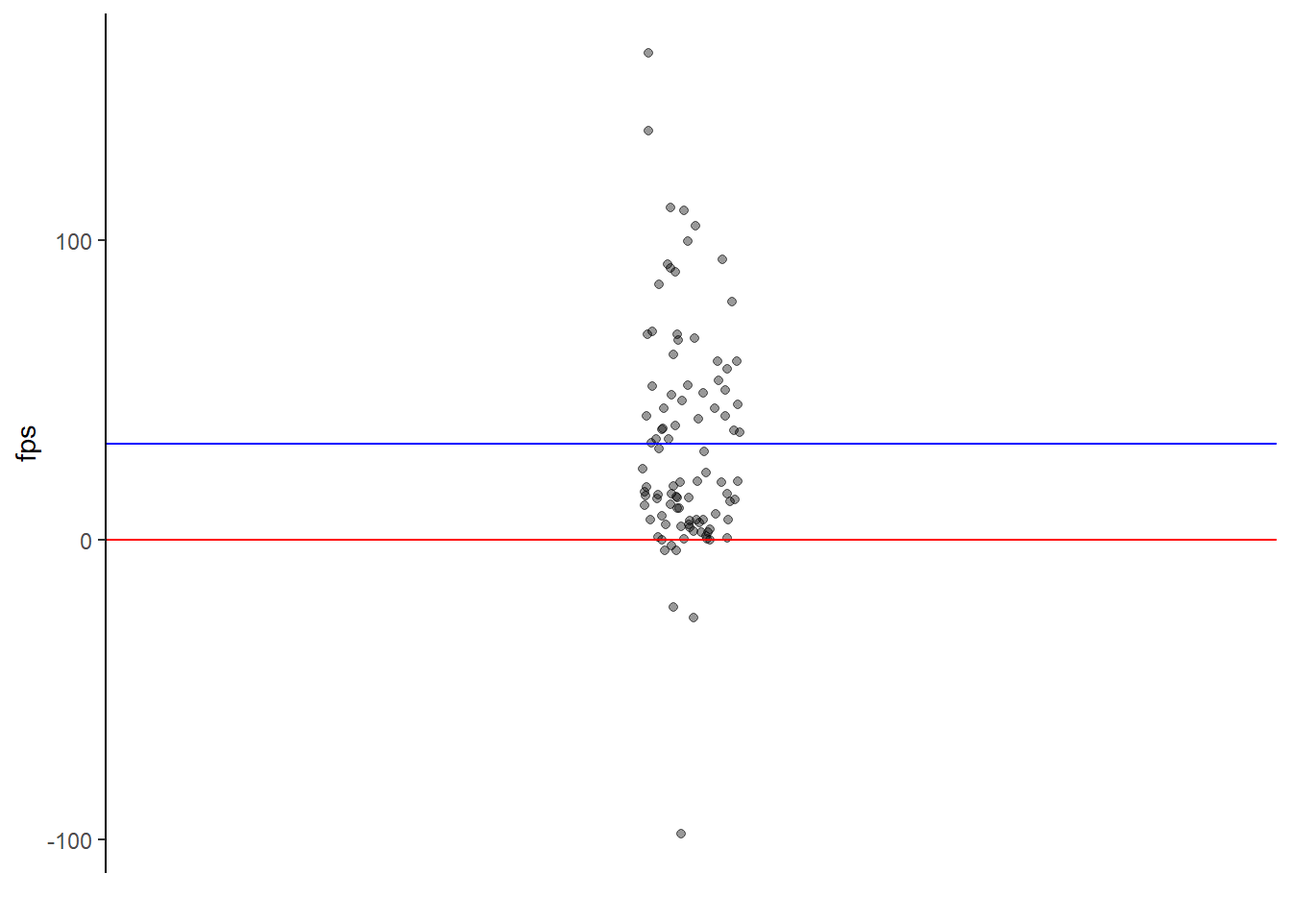
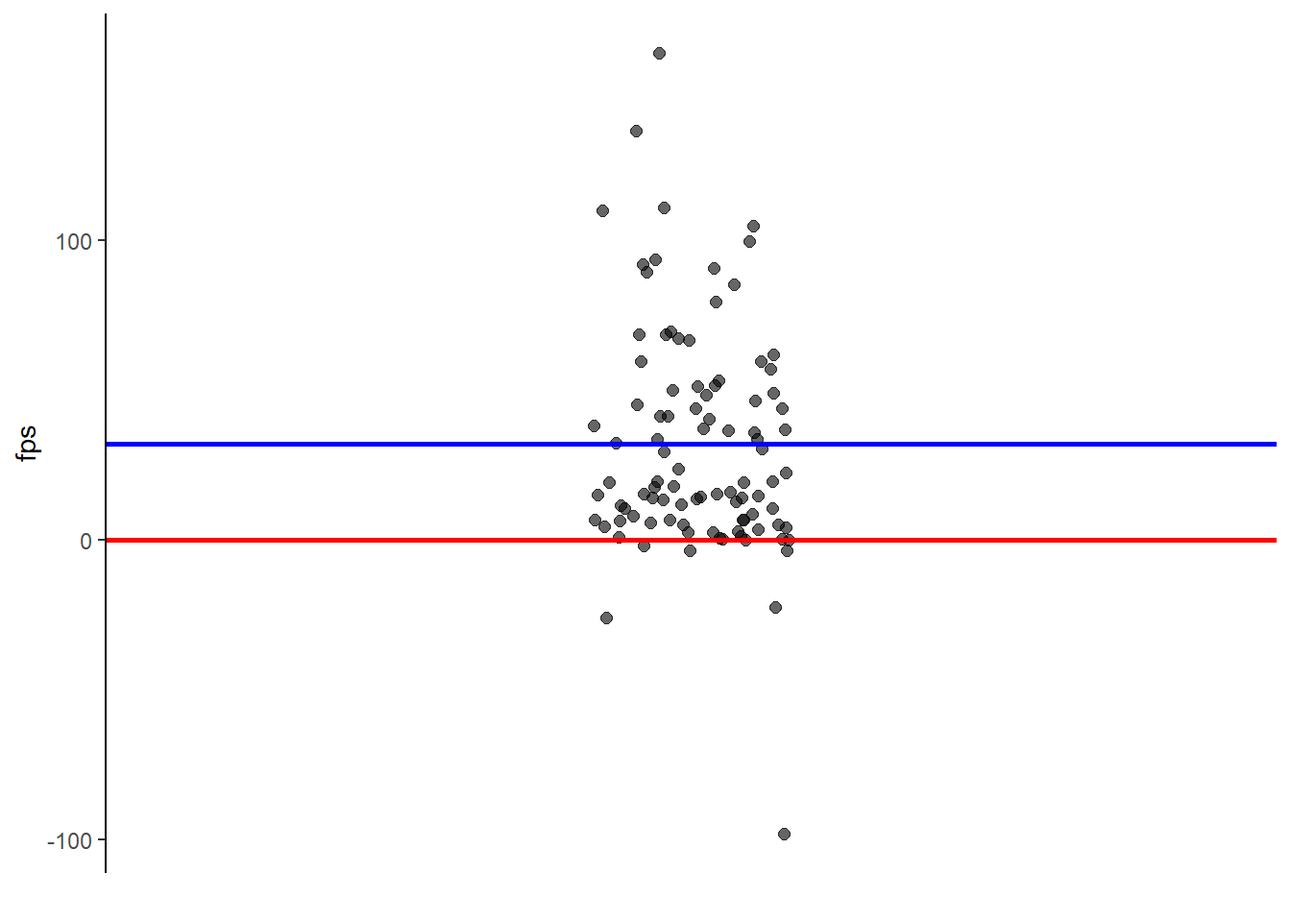
Built site for gh-pages

diff --git a/03_single_mean.html b/03_single_mean.html
@@ -303,9 +303,15 @@ window.Quarto = {
 <section id="units-3-4-organization" class="level2" data-number="3.1">
 <h2 data-number="3.1" class="anchored" data-anchor-id="units-3-4-organization"><span class="header-section-number">3.1</span> Units 3-4 Organization</h2>
 <ul>
-<li>First, consider details of simplest model (one parameter estimate; mean-only model; no <span class="math inline">\(X\)</span>s).</li>
-<li>Next, examine simple regression (two parameter estimates; one <span class="math inline">\(X\)</span> for one quantitative predictor variable).</li>
-<li>These provide a critical foundation for all linear models.</li>
+<li>First, consider details of simplest model (one parameter estimate; mean-only model; no <span class="math inline">\(X\)</span>s).<br>
+<br>
+</li>
+<li>Next, examine simple regression (two parameter estimates; one <span class="math inline">\(X\)</span> for one quantitative predictor variable).<br>
+<br>
+</li>
+<li>These provide a critical foundation for all linear models.<br>
+<br>
+</li>
 <li>Subsequent units will generalize to one dichotomous variable (<em>Unit 5</em>), multiple predictor variables (<em>Units 6-7</em>), and beyond…</li>
 </ul>
 <hr>
@@ -343,15 +349,22 @@ This is called <strong>Fear potentiated startle (FPS)</strong>. Our procedure wo
 <section id="fear-potentiated-startle-one-parameter-model" class="level2" data-number="3.4">
 <h2 data-number="3.4" class="anchored" data-anchor-id="fear-potentiated-startle-one-parameter-model"><span class="header-section-number">3.4</span> Fear Potentiated Startle: One parameter model</h2>
 <p>A very simple model for the population of FPS scores would predict the same value for everyone in the population.</p>
-<p><span class="math inline">\(\hat{Y}_i=\beta_0\)</span></p>
+<p><span class="math inline">\(\hat{Y}_i=\beta_0\)</span><br>
+<br>
+</p>
 <p>We would like this value to be the <em>best</em> prediction.<br>
 <br>
 </p>
 <section id="question-in-the-context-of-data-model-error-how-can-we-quantify-best" class="level3" data-number="3.4.1">
 <h3 data-number="3.4.1" class="anchored" data-anchor-id="question-in-the-context-of-data-model-error-how-can-we-quantify-best"><span class="header-section-number">3.4.1</span> <span style="color: red;">Question: In the context of DATA = MODEL + ERROR, how can we quantify <em>best</em>?</span></h3>
 <hr>
-<p><strong>We want to predict some characteristic about the population of FPS scores that minimizes the ERROR from our model.</strong></p>
-<p><strong>ERROR = DATA – MODEL</strong></p>
+<p><strong>We want to predict some characteristic about the population of FPS scores that minimizes the ERROR from our model.</strong><br>
+<br>
+</p>
+<p><strong>ERROR = DATA – MODEL</strong><br>
+<br>
+<br>
+</p>
 <p><strong><span class="math inline">\(\varepsilon_i=Y_i-\hat{Y}_i\)</span>; There is an error (<span class="math inline">\(\varepsilon_i\)</span>) for each population score.</strong><br>
 <br>
 </p>
@@ -364,16 +377,21 @@ This is called <strong>Fear potentiated startle (FPS)</strong>. Our procedure wo
 <section id="total-error" class="level2" data-number="3.5">
 <h2 data-number="3.5" class="anchored" data-anchor-id="total-error"><span class="header-section-number">3.5</span> Total Error</h2>
 <p><strong><em>Sum of errors</em></strong> across all scores in the population isn’t ideal because positive and negative errors will tend to cancel each other out.</p>
-<p><span class="math inline">\(\sum(Y_i-\hat{Y}_i)\)</span></p>
-<p><strong><em>Sum of absolute values of errors</em></strong> could work. If we selected <span class="math inline">\(\beta_0\)</span> to minimize the sum of the absolute value of errors, <span class="math inline">\(\beta_0\)</span> would equal the median of the population.</p>
-<p><span class="math inline">\(\sum(|Y_i-\hat{Y}_i|)\)</span></p>
+<p><span class="math inline">\(\sum(Y_i-\hat{Y}_i)\)</span><br>
+<br>
+<strong><em>Sum of absolute values of errors</em></strong> could work. If we selected <span class="math inline">\(\beta_0\)</span> to minimize the sum of the absolute value of errors, <span class="math inline">\(\beta_0\)</span> would equal the median of the population.</p>
+<p><span class="math inline">\(\sum(|Y_i-\hat{Y}_i|)\)</span><br>
+<br>
+</p>
 <p><strong><em>Sum of squared errors (SSE)</em></strong> could work. If we selected <span class="math inline">\(\beta_0\)</span> to minimize the sum of squared errors, <span class="math inline">\(\beta_0\)</span> would equal the mean of the population.</p>
 <p><span class="math inline">\(\sum(Y_i-\hat{Y}_i)^2\)</span></p>
 <hr>
 </section>
 <section id="one-parameter-model-for-fps" class="level2" data-number="3.6">
 <h2 data-number="3.6" class="anchored" data-anchor-id="one-parameter-model-for-fps"><span class="header-section-number">3.6</span> One Parameter Model for FPS</h2>
-<p>For the moment, lets assume we prefer to minimize SSE (more on that in a moment). You should predict the population mean FPS for everyone.</p>
+<p>For the moment, lets assume we prefer to minimize SSE (more on that in a moment). You should predict the population mean FPS for everyone.<br>
+<br>
+</p>
 <p><span class="math inline">\(\hat{Y}_i=\beta_0\)</span> where <span class="math inline">\(\beta_0=\mu\)</span><br>
 <br>
 </p>
@@ -400,7 +418,9 @@ This is called <strong>Fear potentiated startle (FPS)</strong>. Our procedure wo
 </section>
 <section id="least-squares-criterion" class="level2" data-number="3.8">
 <h2 data-number="3.8" class="anchored" data-anchor-id="least-squares-criterion"><span class="header-section-number">3.8</span> Least Squares Criterion</h2>
-<p>In ordinary least squares (OLS) regression and other least squares linear models, the model parameter estimates (e.g., <span class="math inline">\(b_0\)</span>) are calculated such that they minimize the sum of squared errors (SSE) in the sample in which you estimate the model.</p>
+<p>In ordinary least squares (OLS) regression and other least squares linear models, the model parameter estimates (e.g., <span class="math inline">\(b_0\)</span>) are calculated such that they minimize the sum of squared errors (SSE) in the sample in which you estimate the model.<br>
+<br>
+</p>
 <p><span class="math inline">\(\text{SSE}=\sum(Y_i-\hat{Y}_i)^2\)</span></p>
 <p><span class="math inline">\(\text{SSE}=\sum e_i^2\)</span></p>
 <hr>
@@ -421,11 +441,16 @@ This is called <strong>Fear potentiated startle (FPS)</strong>. Our procedure wo
 </section>
 <section id="least-squares-criterion-continued" class="level2" data-number="3.10">
 <h2 data-number="3.10" class="anchored" data-anchor-id="least-squares-criterion-continued"><span class="header-section-number">3.10</span> Least Squares Criterion (Continued)</h2>
-<p>If the <span class="math inline">\(\varepsilon_i\)</span> are normally distributed, both the median and the mean are <strong><em>unbiased</em></strong> and <strong><em>consistent</em></strong> estimators.</p>
+<p>If the <span class="math inline">\(\varepsilon_i\)</span> are normally distributed, both the median and the mean are <strong><em>unbiased</em></strong> and <strong><em>consistent</em></strong> estimators.<br>
+<br>
+</p>
 <p>The variance of the sampling distribution for the mean is:</p>
 <p><span class="math inline">\(\frac{\sigma^2}{N}\)</span></p>
 <p>The variance of the sampling distribution for the mean is:</p>
-<p><span class="math inline">\(\frac{\pi\sigma^2}{2N}\)</span></p>
+<p><span class="math inline">\(\frac{\pi\sigma^2}{2N}\)</span><br>
+<br>
+<br>
+</p>
 <p>Therefore, the mean is the <strong>more efficient</strong> parameter.</p>
 <p>For this reason, we tend to prefer to estimate our models by minimizing the sum of squared errors.</p>
 <hr>
@@ -483,11 +508,19 @@ $ fps   &lt;dbl&gt; 19.4909278, 48.4069444, -22.5285000, 6.7237833, 89.6587222, 
 </section>
 <section id="fps-experiment-the-inference-details" class="level2" data-number="3.13">
 <h2 data-number="3.13" class="anchored" data-anchor-id="fps-experiment-the-inference-details"><span class="header-section-number">3.13</span> FPS Experiment: The Inference Details</h2>
-<p><strong><em>Goal:</em></strong> Determine if our shock threat procedure is effective at potentiating startle (increasing startle during threat relative to safe).</p>
+<p><strong><em>Goal:</em></strong> Determine if our shock threat procedure is effective at potentiating startle (increasing startle during threat relative to safe).<br>
+<br>
+</p>
 <p>Create a simple model of FPS scores in the population.</p>
-<p><span class="math inline">\(\text{FPS}=\beta_0\)</span></p>
-<p>Collect sample of <span class="math inline">\(N=96\)</span> to estimate <span class="math inline">\(\beta_0\)</span>.</p>
-<p>Calculate sample parameter estimate (<span class="math inline">\(b_0\)</span>) that minimizes SSE in sample.</p>
+<p><span class="math inline">\(\text{FPS}=\beta_0\)</span><br>
+<br>
+</p>
+<p>Collect sample of <span class="math inline">\(N=96\)</span> to estimate <span class="math inline">\(\beta_0\)</span>.<br>
+<br>
+</p>
+<p>Calculate sample parameter estimate (<span class="math inline">\(b_0\)</span>) that minimizes SSE in sample.<br>
+<br>
+</p>
 <p>Use <span class="math inline">\(b_0\)</span> to test hypotheses.</p>
 <p><span class="math inline">\(H_0: \beta_0 = 0\)</span><br>
 <span class="math inline">\(H_a: \beta_0 \neq 0\)</span></p>
@@ -496,11 +529,20 @@ $ fps   &lt;dbl&gt; 19.4909278, 48.4069444, -22.5285000, 6.7237833, 89.6587222, 
 <section id="estimating-a-one-parameter-model-in-r" class="level2" data-number="3.14">
 <h2 data-number="3.14" class="anchored" data-anchor-id="estimating-a-one-parameter-model-in-r"><span class="header-section-number">3.14</span> Estimating a One Parameter Model in R</h2>
 <div class="cell">
-<div class="sourceCode cell-code" id="cb6"><pre class="sourceCode r code-with-copy"><code class="sourceCode r"><span id="cb6-1"><a href="#cb6-1" aria-hidden="true" tabindex="-1"></a>m <span class="ot">=</span> <span class="fu">lm</span>(fps <span class="sc">~</span> <span class="dv">1</span>, <span class="at">data =</span> data)</span></code><button title="Copy to Clipboard" class="code-copy-button"><i class="bi"></i></button></pre></div>
+<div class="sourceCode cell-code" id="annotated-cell-4"><pre class="sourceCode r code-annotation-code code-with-copy code-annotated"><code class="sourceCode r"><a class="code-annotation-anchor" data-target-cell="annotated-cell-4" data-target-annotation="1" onclick="event.preventDefault();">1</a><span id="annotated-cell-4-1" class="code-annotation-target"><a href="#annotated-cell-4-1" aria-hidden="true" tabindex="-1"></a>m <span class="ot">=</span> <span class="fu">lm</span>(fps <span class="sc">~</span> <span class="dv">1</span>, <span class="at">data =</span> data)</span><div class="code-annotation-gutter-bg"></div><div class="code-annotation-gutter"></div></code><button title="Copy to Clipboard" class="code-copy-button"><i class="bi"></i></button></pre></div>
+<div class="cell-annotation">
+<dl class="code-annotation-container-grid">
+<dt data-target-cell="annotated-cell-4" data-target-annotation="1">1</dt>
+<dd>
+<span data-code-cell="annotated-cell-4" data-code-lines="1" data-code-annotation="1">Here we are fitting a linear model with FPS regressed on the intercept. In other words, we are fitting a model that predicts FPS using only the mean.</span>
+</dd>
+</dl>
 </div>
+</div>
+<hr>
 <p>We can pull out the errors (<span class="math inline">\(e_i=Y_i-\hat{Y}i\)</span>) for each observation in the sample using <code>residuals()</code></p>
 <div class="cell">
-<div class="sourceCode cell-code" id="cb7"><pre class="sourceCode r code-with-copy"><code class="sourceCode r"><span id="cb7-1"><a href="#cb7-1" aria-hidden="true" tabindex="-1"></a><span class="fu">residuals</span>(m)</span></code><button title="Copy to Clipboard" class="code-copy-button"><i class="bi"></i></button></pre></div>
+<div class="sourceCode cell-code" id="cb6"><pre class="sourceCode r code-with-copy"><code class="sourceCode r"><span id="cb6-1"><a href="#cb6-1" aria-hidden="true" tabindex="-1"></a><span class="fu">residuals</span>(m)</span></code><button title="Copy to Clipboard" class="code-copy-button"><i class="bi"></i></button></pre></div>
 <div class="cell-output cell-output-stdout">
 <pre><code>           1            2            3            4            5            6 
  -12.6999127   16.2161040  -54.7193405  -25.4670572   57.4678817    8.3829373 
@@ -539,17 +581,19 @@ $ fps   &lt;dbl&gt; 19.4909278, 48.4069444, -22.5285000, 6.7237833, 89.6587222, 
 <hr>
 <p>We can also easily calculate the SSE with the following code:</p>
 <div class="cell">
-<div class="sourceCode cell-code" id="cb9"><pre class="sourceCode r code-with-copy"><code class="sourceCode r"><span id="cb9-1"><a href="#cb9-1" aria-hidden="true" tabindex="-1"></a><span class="fu">sum</span>(<span class="fu">residuals</span>(m)<span class="sc">^</span><span class="dv">2</span>)</span></code><button title="Copy to Clipboard" class="code-copy-button"><i class="bi"></i></button></pre></div>
+<div class="sourceCode cell-code" id="cb8"><pre class="sourceCode r code-with-copy"><code class="sourceCode r"><span id="cb8-1"><a href="#cb8-1" aria-hidden="true" tabindex="-1"></a><span class="fu">sum</span>(<span class="fu">residuals</span>(m)<span class="sc">^</span><span class="dv">2</span>)</span></code><button title="Copy to Clipboard" class="code-copy-button"><i class="bi"></i></button></pre></div>
 <div class="cell-output cell-output-stdout">
 <pre><code>[1] 133888.3</code></pre>
 </div>
 </div>
-<p>This tells us about how well the model fits the data. Specifically it is the sum of the squared differences between the predicted values and the actual participant scores</p>
+<p><br>
+<br>
+This tells us about how well the model fits the data. Specifically it is the sum of the squared differences between the predicted values and the actual participant scores</p>
 <hr>
 <p>We can get the predicted value for each individual in the sample using this model with the function <code>predict()</code>.</p>
 <p><span class="math inline">\(\hat{Y}=32.19\)</span></p>
 <div class="cell">
-<div class="sourceCode cell-code" id="cb11"><pre class="sourceCode r code-with-copy"><code class="sourceCode r"><span id="cb11-1"><a href="#cb11-1" aria-hidden="true" tabindex="-1"></a><span class="fu">predict</span>(m)</span></code><button title="Copy to Clipboard" class="code-copy-button"><i class="bi"></i></button></pre></div>
+<div class="sourceCode cell-code" id="cb10"><pre class="sourceCode r code-with-copy"><code class="sourceCode r"><span id="cb10-1"><a href="#cb10-1" aria-hidden="true" tabindex="-1"></a><span class="fu">predict</span>(m)</span></code><button title="Copy to Clipboard" class="code-copy-button"><i class="bi"></i></button></pre></div>
 <div class="cell-output cell-output-stdout">
 <pre><code>       1        2        3        4        5        6        7        8 
 32.19084 32.19084 32.19084 32.19084 32.19084 32.19084 32.19084 32.19084 
@@ -580,8 +624,8 @@ $ fps   &lt;dbl&gt; 19.4909278, 48.4069444, -22.5285000, 6.7237833, 89.6587222, 
 <hr>
 <p>We also may want to look at the parameter coefficients (in this case we are only looking at the intercept). We can use the <code>tidy()</code> function from the <code>broom</code> package to do this.</p>
 <div class="cell">
-<div class="sourceCode cell-code" id="cb13"><pre class="sourceCode r code-with-copy"><code class="sourceCode r"><span id="cb13-1"><a href="#cb13-1" aria-hidden="true" tabindex="-1"></a>m <span class="sc">|&gt;</span> </span>
-<span id="cb13-2"><a href="#cb13-2" aria-hidden="true" tabindex="-1"></a>  broom<span class="sc">::</span><span class="fu">tidy</span>()</span></code><button title="Copy to Clipboard" class="code-copy-button"><i class="bi"></i></button></pre></div>
+<div class="sourceCode cell-code" id="cb12"><pre class="sourceCode r code-with-copy"><code class="sourceCode r"><span id="cb12-1"><a href="#cb12-1" aria-hidden="true" tabindex="-1"></a>m <span class="sc">|&gt;</span> </span>
+<span id="cb12-2"><a href="#cb12-2" aria-hidden="true" tabindex="-1"></a>  broom<span class="sc">::</span><span class="fu">tidy</span>()</span></code><button title="Copy to Clipboard" class="code-copy-button"><i class="bi"></i></button></pre></div>
 <div class="cell-output cell-output-stdout">
 <pre><code># A tibble: 1 × 5
   term        estimate std.error statistic  p.value
@@ -602,27 +646,35 @@ $ fps   &lt;dbl&gt; 19.4909278, 48.4069444, -22.5285000, 6.7237833, 89.6587222, 
 </section>
 <section id="sampling-distribution-testing-inferences-about-beta_0" class="level2" data-number="3.15">
 <h2 data-number="3.15" class="anchored" data-anchor-id="sampling-distribution-testing-inferences-about-beta_0"><span class="header-section-number">3.15</span> Sampling Distribution: Testing Inferences About <span class="math inline">\(\beta_0\)</span></h2>
-<p><span class="math inline">\(H_0: \beta_0 = 0; H_a: \beta_0 \neq 0\)</span></p>
-<p>If <span class="math inline">\(H_0\)</span> is true, the sampling distribution for <span class="math inline">\(\beta_0\)</span> will have a mean of 0. We can estimate standard deviation of the sampling distribution with <span class="math inline">\(SE\)</span> for <span class="math inline">\(b_0\)</span>.</p>
-<p><span class="math inline">\(t(df=N-P)=\frac{b_0-0}{SE_{b_0}}=\frac{32.2-0}{3.8}=8.40\)</span></p>
+<p><span class="math inline">\(H_0: \beta_0 = 0; H_a: \beta_0 \neq 0\)</span><br>
+<br>
+</p>
+<p>If <span class="math inline">\(H_0\)</span> is true, the sampling distribution for <span class="math inline">\(\beta_0\)</span> will have a mean of 0. We can estimate standard deviation of the sampling distribution with <span class="math inline">\(SE\)</span> for <span class="math inline">\(b_0\)</span>.<br>
+<br>
+</p>
+<p><span class="math inline">\(t(df=N-P)=\frac{b_0-0}{SE_{b_0}}=\frac{32.2-0}{3.8}=8.40\)</span><br>
+<br>
+</p>
 <p><span class="math inline">\(b_0\)</span> is approximately 8 standard deviations above the expected mean of the distribution if <span class="math inline">\(H_0\)</span> is true.</p>
 <hr>
 <p>We can use <code>pt()</code> to calculate the <span class="math inline">\(p\)</span> value.</p>
 <div class="cell">
-<div class="sourceCode cell-code" id="cb15"><pre class="sourceCode r code-with-copy"><code class="sourceCode r"><span id="cb15-1"><a href="#cb15-1" aria-hidden="true" tabindex="-1"></a><span class="fu">pt</span>(<span class="fl">8.40</span>,<span class="dv">95</span>,<span class="at">lower.tail=</span><span class="cn">FALSE</span>) <span class="sc">*</span> <span class="dv">2</span></span></code><button title="Copy to Clipboard" class="code-copy-button"><i class="bi"></i></button></pre></div>
+<div class="sourceCode cell-code" id="cb14"><pre class="sourceCode r code-with-copy"><code class="sourceCode r"><span id="cb14-1"><a href="#cb14-1" aria-hidden="true" tabindex="-1"></a><span class="fu">pt</span>(<span class="fl">8.40</span>,<span class="dv">95</span>,<span class="at">lower.tail=</span><span class="cn">FALSE</span>) <span class="sc">*</span> <span class="dv">2</span></span></code><button title="Copy to Clipboard" class="code-copy-button"><i class="bi"></i></button></pre></div>
 <div class="cell-output cell-output-stdout">
 <pre><code>[1] 4.293253e-13</code></pre>
 </div>
 </div>
-<p>The probability of obtaining a sample <span class="math inline">\(b_0\)</span> = 32.2 (or more extreme) if <span class="math inline">\(H_0\)</span> is true is very low (&lt; .05). Therefore we reject <span class="math inline">\(H_0\)</span> and conclude that <span class="math inline">\(\beta_0 \neq 0\)</span> and <span class="math inline">\(b_0\)</span> is our best (unbiased) estimate of it.</p>
+<p><br>
+<br>
+The probability of obtaining a sample <span class="math inline">\(b_0\)</span> = 32.2 (or more extreme) if <span class="math inline">\(H_0\)</span> is true is very low (&lt; .05). Therefore we reject <span class="math inline">\(H_0\)</span> and conclude that <span class="math inline">\(\beta_0 \neq 0\)</span> and <span class="math inline">\(b_0\)</span> is our best (unbiased) estimate of it.</p>
 <hr>
 <div class="cell">
-<div class="sourceCode cell-code" id="cb17"><pre class="sourceCode r code-with-copy"><code class="sourceCode r"><span id="cb17-1"><a href="#cb17-1" aria-hidden="true" tabindex="-1"></a><span class="fu">tibble</span>(<span class="at">b0 =</span> <span class="fu">seq</span>(<span class="sc">-</span><span class="dv">40</span>,<span class="dv">40</span>,.<span class="dv">01</span>),</span>
-<span id="cb17-2"><a href="#cb17-2" aria-hidden="true" tabindex="-1"></a>       <span class="at">probability =</span> <span class="fu">dt</span>(b0<span class="sc">/</span>broom<span class="sc">::</span><span class="fu">tidy</span>(m)<span class="sc">$</span>std.error, m<span class="sc">$</span>df.residual)) <span class="sc">|&gt;</span> </span>
-<span id="cb17-3"><a href="#cb17-3" aria-hidden="true" tabindex="-1"></a>  <span class="fu">ggplot</span>(<span class="fu">aes</span>(<span class="at">x =</span> b0, <span class="at">y =</span> probability)) <span class="sc">+</span></span>
-<span id="cb17-4"><a href="#cb17-4" aria-hidden="true" tabindex="-1"></a>  <span class="fu">geom_line</span>() <span class="sc">+</span></span>
-<span id="cb17-5"><a href="#cb17-5" aria-hidden="true" tabindex="-1"></a>  <span class="fu">geom_vline</span>(<span class="at">xintercept =</span> broom<span class="sc">::</span><span class="fu">tidy</span>(m)<span class="sc">$</span>estimate, <span class="at">color =</span> <span class="st">"red"</span>) <span class="sc">+</span></span>
-<span id="cb17-6"><a href="#cb17-6" aria-hidden="true" tabindex="-1"></a>  <span class="fu">labs</span>(<span class="at">title =</span> <span class="st">"Sampling Distribution for b0"</span>)</span></code><button title="Copy to Clipboard" class="code-copy-button"><i class="bi"></i></button></pre></div>
+<div class="sourceCode cell-code" id="cb16"><pre class="sourceCode r code-with-copy"><code class="sourceCode r"><span id="cb16-1"><a href="#cb16-1" aria-hidden="true" tabindex="-1"></a><span class="fu">tibble</span>(<span class="at">b0 =</span> <span class="fu">seq</span>(<span class="sc">-</span><span class="dv">40</span>,<span class="dv">40</span>,.<span class="dv">01</span>),</span>
+<span id="cb16-2"><a href="#cb16-2" aria-hidden="true" tabindex="-1"></a>       <span class="at">probability =</span> <span class="fu">dt</span>(b0<span class="sc">/</span>broom<span class="sc">::</span><span class="fu">tidy</span>(m)<span class="sc">$</span>std.error, m<span class="sc">$</span>df.residual)) <span class="sc">|&gt;</span> </span>
+<span id="cb16-3"><a href="#cb16-3" aria-hidden="true" tabindex="-1"></a>  <span class="fu">ggplot</span>(<span class="fu">aes</span>(<span class="at">x =</span> b0, <span class="at">y =</span> probability)) <span class="sc">+</span></span>
+<span id="cb16-4"><a href="#cb16-4" aria-hidden="true" tabindex="-1"></a>  <span class="fu">geom_line</span>() <span class="sc">+</span></span>
+<span id="cb16-5"><a href="#cb16-5" aria-hidden="true" tabindex="-1"></a>  <span class="fu">geom_vline</span>(<span class="at">xintercept =</span> broom<span class="sc">::</span><span class="fu">tidy</span>(m)<span class="sc">$</span>estimate, <span class="at">color =</span> <span class="st">"red"</span>) <span class="sc">+</span></span>
+<span id="cb16-6"><a href="#cb16-6" aria-hidden="true" tabindex="-1"></a>  <span class="fu">labs</span>(<span class="at">title =</span> <span class="st">"Sampling Distribution for b0"</span>)</span></code><button title="Copy to Clipboard" class="code-copy-button"><i class="bi"></i></button></pre></div>
 <div class="cell-output-display">
 <div>
 <figure class="figure">
@@ -635,36 +687,46 @@ $ fps   &lt;dbl&gt; 19.4909278, 48.4069444, -22.5285000, 6.7237833, 89.6587222, 
 </section>
 <section id="statistical-inference-and-model-comparisons" class="level2" data-number="3.16">
 <h2 data-number="3.16" class="anchored" data-anchor-id="statistical-inference-and-model-comparisons"><span class="header-section-number">3.16</span> Statistical Inference and Model Comparisons</h2>
-<p>Statistical inference about parameters is fundamentally about model comparisons.</p>
-<p>You are implicitly (t-test of parameter estimate) or explicitly (F-test of model comparison) comparing two different models of your data.</p>
-<p>We follow Judd et al and call these two models the <em>compact model</em> and the <em>augmented model</em>.</p>
-<p>The compact model will represent reality as the null hypothesis predicts. The augmented model will represent reality as the alternative hypothesis predicts.</p>
-<p>The compact model is simpler (fewer parameters) than the augmented model. It is also nested in the augmented model (i.e.&nbsp;a subset of parameters).</p>
+<p>Statistical inference about parameters is fundamentally about model comparisons.<br>
+</p>
+<p><br>
+You are implicitly (t-test of parameter estimate) or explicitly (F-test of model comparison) comparing two different models of your data.<br>
+<br>
+We follow Judd et al and call these two models the <em>compact model</em> and the <em>augmented model</em>.<br>
+<br>
+The compact model will represent reality as the null hypothesis predicts. The augmented model will represent reality as the alternative hypothesis predicts.<br>
+<br>
+The compact model is simpler (fewer parameters) than the augmented model. It is also nested in the augmented model (i.e.&nbsp;a subset of parameters).</p>
 <hr>
 </section>
 <section id="model-comparisons-testing-inferences-about-beta_0" class="level2" data-number="3.17">
 <h2 data-number="3.17" class="anchored" data-anchor-id="model-comparisons-testing-inferences-about-beta_0"><span class="header-section-number">3.17</span> Model Comparisons: Testing Inferences about <span class="math inline">\(\beta_0\)</span></h2>
 <p><span class="math inline">\(\hat{FPS_i}=\beta_0\)</span></p>
 <p><span class="math inline">\(H_0: \beta_0 = 0\)</span></p>
-<p><span class="math inline">\(H_a: \beta_0 \neq 0\)</span></p>
-<p>Compact model: <span class="math inline">\(\hat{FPS_i}=0\)</span></p>
-<p>Augmented model: <span class="math inline">\(\hat{FPS_i}=\beta_0 (\approx b_0)\)</span></p>
+<p><span class="math inline">\(H_a: \beta_0 \neq 0\)</span><br>
+<br>
+</p>
+<p>Compact model: <span class="math inline">\(\hat{FPS_i}=0\)</span><br>
+Augmented model: <span class="math inline">\(\hat{FPS_i}=\beta_0 (\approx b_0)\)</span><br>
+<br>
+</p>
 <p>We estimate 0 parameters (<span class="math inline">\(P=0\)</span>) in this compact model.<br>
-We estimate 1 parameter (<span class="math inline">\(P=1\)</span>) in this augmented model.</p>
-<p>Choosing between these two models is equivalent to testing if <span class="math inline">\(\beta_0 = 0\)</span> as you did with the t-test.</p>
+We estimate 1 parameter (<span class="math inline">\(P=1\)</span>) in this augmented model.<br>
+<br>
+Choosing between these two models is equivalent to testing if <span class="math inline">\(\beta_0 = 0\)</span> as you did with the t-test.</p>
 <hr>
 </section>
 <section id="model-comparison-plots" class="level2" data-number="3.18">
 <h2 data-number="3.18" class="anchored" data-anchor-id="model-comparison-plots"><span class="header-section-number">3.18</span> Model Comparison Plots</h2>
 <div class="cell">
-<div class="sourceCode cell-code" id="cb18"><pre class="sourceCode r code-with-copy"><code class="sourceCode r"><span id="cb18-1"><a href="#cb18-1" aria-hidden="true" tabindex="-1"></a>data <span class="sc">|&gt;</span> </span>
-<span id="cb18-2"><a href="#cb18-2" aria-hidden="true" tabindex="-1"></a>  <span class="fu">ggplot</span>(<span class="fu">aes</span>(<span class="at">x =</span> <span class="st">""</span>, <span class="at">y =</span> fps)) <span class="sc">+</span></span>
-<span id="cb18-3"><a href="#cb18-3" aria-hidden="true" tabindex="-1"></a>  <span class="fu">geom_jitter</span>(<span class="at">width =</span> <span class="fl">0.05</span>, <span class="at">alpha =</span> .<span class="dv">4</span>) <span class="sc">+</span></span>
-<span id="cb18-4"><a href="#cb18-4" aria-hidden="true" tabindex="-1"></a>  <span class="fu">theme</span>(<span class="at">axis.line.x =</span> <span class="fu">element_blank</span>(),</span>
-<span id="cb18-5"><a href="#cb18-5" aria-hidden="true" tabindex="-1"></a>        <span class="at">axis.ticks.x =</span> <span class="fu">element_blank</span>()) <span class="sc">+</span></span>
-<span id="cb18-6"><a href="#cb18-6" aria-hidden="true" tabindex="-1"></a>  <span class="fu">xlab</span>(<span class="cn">NULL</span>) <span class="sc">+</span></span>
-<span id="cb18-7"><a href="#cb18-7" aria-hidden="true" tabindex="-1"></a>  <span class="fu">geom_hline</span>(<span class="at">yintercept =</span> <span class="dv">0</span>, <span class="at">color =</span> <span class="st">"red"</span>) <span class="sc">+</span></span>
-<span id="cb18-8"><a href="#cb18-8" aria-hidden="true" tabindex="-1"></a>  <span class="fu">geom_hline</span>(<span class="at">yintercept =</span> broom<span class="sc">::</span><span class="fu">tidy</span>(m)<span class="sc">$</span>estimate, <span class="at">color =</span> <span class="st">"blue"</span>)</span></code><button title="Copy to Clipboard" class="code-copy-button"><i class="bi"></i></button></pre></div>
+<div class="sourceCode cell-code" id="cb17"><pre class="sourceCode r code-with-copy"><code class="sourceCode r"><span id="cb17-1"><a href="#cb17-1" aria-hidden="true" tabindex="-1"></a>data <span class="sc">|&gt;</span> </span>
+<span id="cb17-2"><a href="#cb17-2" aria-hidden="true" tabindex="-1"></a>  <span class="fu">ggplot</span>(<span class="fu">aes</span>(<span class="at">x =</span> <span class="st">""</span>, <span class="at">y =</span> fps)) <span class="sc">+</span></span>
+<span id="cb17-3"><a href="#cb17-3" aria-hidden="true" tabindex="-1"></a>  <span class="fu">geom_jitter</span>(<span class="at">width =</span> <span class="fl">0.1</span>, <span class="at">alpha =</span> .<span class="dv">6</span>, <span class="at">size =</span> <span class="dv">2</span>) <span class="sc">+</span></span>
+<span id="cb17-4"><a href="#cb17-4" aria-hidden="true" tabindex="-1"></a>  <span class="fu">theme</span>(<span class="at">axis.line.x =</span> <span class="fu">element_blank</span>(),</span>
+<span id="cb17-5"><a href="#cb17-5" aria-hidden="true" tabindex="-1"></a>        <span class="at">axis.ticks.x =</span> <span class="fu">element_blank</span>()) <span class="sc">+</span></span>
+<span id="cb17-6"><a href="#cb17-6" aria-hidden="true" tabindex="-1"></a>  <span class="fu">xlab</span>(<span class="cn">NULL</span>) <span class="sc">+</span></span>
+<span id="cb17-7"><a href="#cb17-7" aria-hidden="true" tabindex="-1"></a>  <span class="fu">geom_hline</span>(<span class="at">yintercept =</span> <span class="dv">0</span>, <span class="at">color =</span> <span class="st">"red"</span>, <span class="at">linewidth =</span> <span class="dv">1</span>) <span class="sc">+</span></span>
+<span id="cb17-8"><a href="#cb17-8" aria-hidden="true" tabindex="-1"></a>  <span class="fu">geom_hline</span>(<span class="at">yintercept =</span> broom<span class="sc">::</span><span class="fu">tidy</span>(m)<span class="sc">$</span>estimate, <span class="at">color =</span> <span class="st">"blue"</span>, <span class="at">linewidth =</span> <span class="dv">1</span>)</span></code><button title="Copy to Clipboard" class="code-copy-button"><i class="bi"></i></button></pre></div>
 <div class="cell-output-display">
 <div>
 <figure class="figure">
